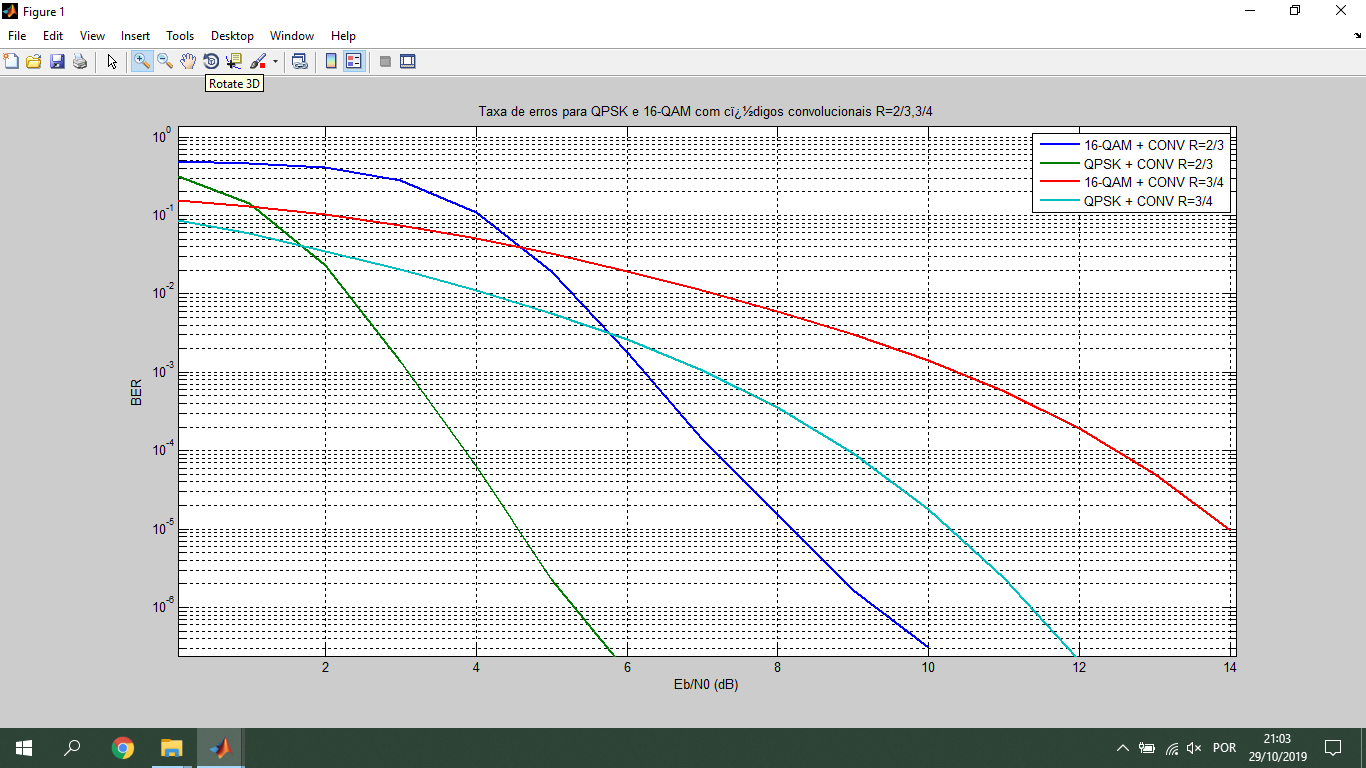
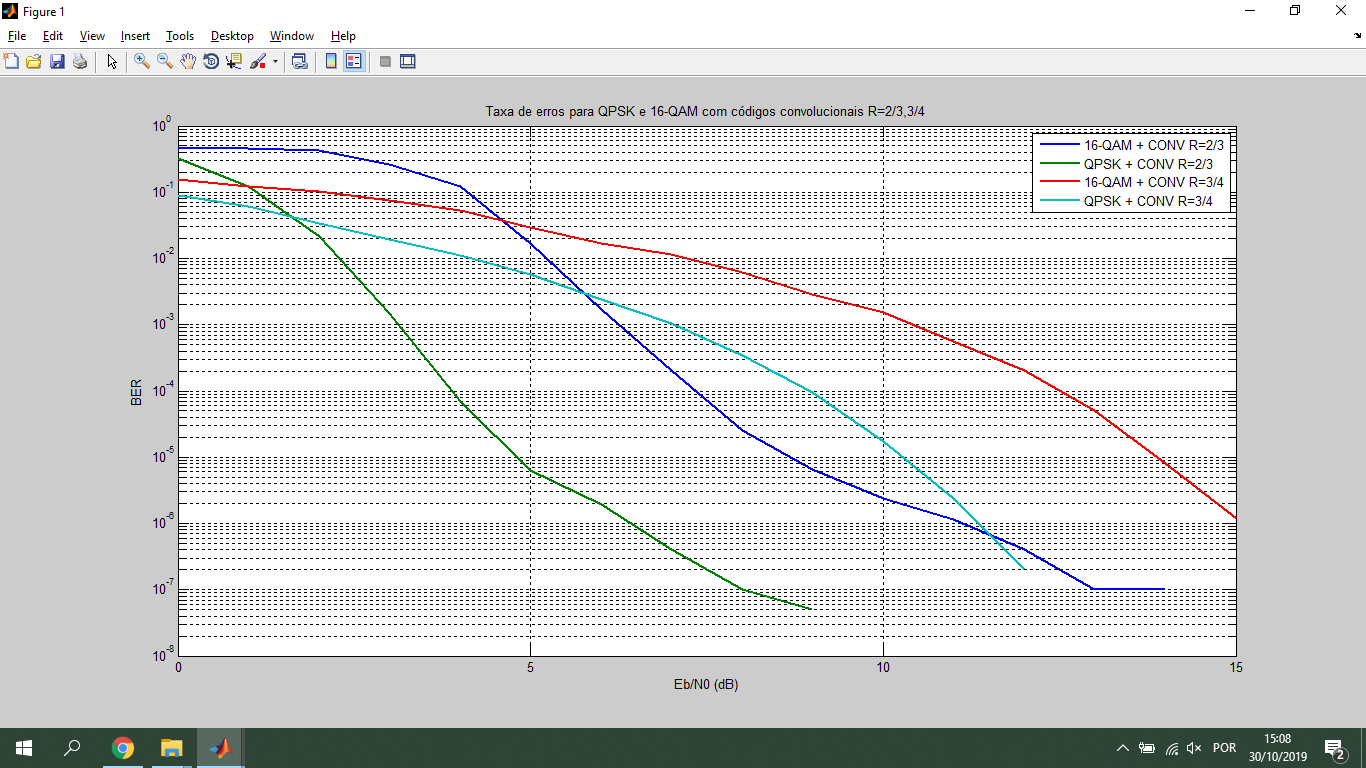
melhorando performance

diff --git a/src/dem_qpsk.m b/src/dem_qpsk.m
@@ -1,9 +1,8 @@
 function demMsg = dem_qpsk(rxSig, EbN0dB, r)
-    M = 4;  % QPSK
-    k = log2(M);
+    k = log2(4); % QPSK
     snr_dB = EbN0dB + 10*log10(r*k);
     noiseVar = 10 .^(-snr_dB/10);
-    demodulador = comm.PSKDemodulator(M, ...
+    demodulador = comm.QPSKDemodulator(...
         'BitOutput', true, ...
         'PhaseOffset', pi/4, ...
         'DecisionMethod', 'Approximate log-likelihood ratio', ...

diff --git a/src/mod_qpsk.m b/src/mod_qpsk.m
@@ -1,6 +1,5 @@
 function txSig = mod_qpsk(msgCod)
-    M = 4; % QPSK
-    modulador = comm.PSKModulator(M, ...
+    modulador = comm.QPSKModulator(...
         'BitInput', true, ...
         'PhaseOffset', pi/4);
     % constellation(modulador)
